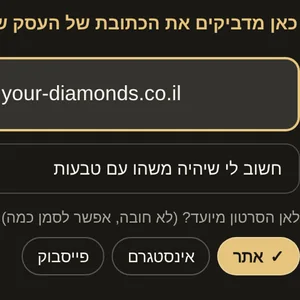
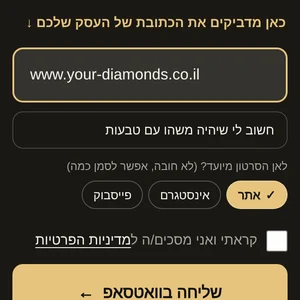
How it works: refresh the link-form picture and fix its thumbnail crop
Claude-Session: https://claude.ai/code/session_015Kj6wZhrCRAfSfrvuRRH85

diff --git a/index.html b/index.html
@@ -887,7 +887,7 @@ dialog .undo{bottom:24px}
       </div>
       <div class="hw-p" id="how-scan" role="tabpanel" aria-labelledby="hwt-scan">
         <p class="hw-line">מדביקים קישור לעסק, מקבלים 3 תסריטים בוואטסאפ, ובוחרים אחד.</p>
-        <div class="hw-row"><button type="button" class="hw-s" aria-expanded="false" data-big="how/a1.webp" data-h="מדביקים קישור לעסק" data-d="מדביקים קישור לאתר או לאינסטגרם. אנחנו &lt;b&gt;סורקים את העסק&lt;/b&gt;, לומדים את המוצרים והסגנון, ו&lt;b&gt;בוחרים רעיונות שמתאימים בדיוק לו&lt;/b&gt;." data-ill="0"><span class="ph"><img src="how/a1-s.webp" alt="" loading="lazy" width="300" height="300"><i aria-hidden="true">1</i></span><b>מדביקים קישור</b></button><button type="button" class="hw-s" aria-expanded="false" data-big="how/a2.webp?7" data-h="מקבלים 3 תסריטים ובוחרים" data-d="לומדים את המוצרים, הצבעים והסגנון שלכם, ושולחים לכם בוואטסאפ 3 תסריטים שנכתבו בשביל העסק שלכם. בכל תסריט: המוצר שנבחר מהאתר שלכם, הסיפור בקצרה, הסצנות והמחיר. עונים איזה תסריט אהבתם, למשל &quot;אחד נשמע טוב&quot;." data-ill="1"><span class="ph"><img src="how/a2-s.webp?7" alt="" loading="lazy" width="300" height="300"><i aria-hidden="true">2</i><em>המחשה</em></span><b>בוחרים תסריט</b></button><button type="button" class="hw-s" aria-expanded="false" data-big="how/a3.webp?7" data-h="מקבלים את הסרטון" data-d="תוך 2 ימי עסקים הסרטון מגיע אליכם בוואטסאפ, מוכן לאינסטגרם, לטיקטוק ולאתר. רוצים לשנות משהו קטן? כותבים לנו." data-ill="1"><span class="ph"><img src="how/a3-s.webp?7" alt="" loading="lazy" width="300" height="300"><i aria-hidden="true">3</i><em>המחשה</em></span><b>מקבלים סרטון</b></button></div>
+        <div class="hw-row"><button type="button" class="hw-s" aria-expanded="false" data-big="how/a1.webp?9" data-h="מדביקים קישור לעסק" data-d="מדביקים קישור לאתר או לאינסטגרם. אנחנו &lt;b&gt;סורקים את העסק&lt;/b&gt;, לומדים את המוצרים והסגנון, ו&lt;b&gt;בוחרים רעיונות שמתאימים בדיוק לו&lt;/b&gt;." data-ill="0"><span class="ph"><img src="how/a1-s.webp?9" alt="" loading="lazy" width="300" height="300"><i aria-hidden="true">1</i></span><b>מדביקים קישור</b></button><button type="button" class="hw-s" aria-expanded="false" data-big="how/a2.webp?7" data-h="מקבלים 3 תסריטים ובוחרים" data-d="לומדים את המוצרים, הצבעים והסגנון שלכם, ושולחים לכם בוואטסאפ 3 תסריטים שנכתבו בשביל העסק שלכם. בכל תסריט: המוצר שנבחר מהאתר שלכם, הסיפור בקצרה, הסצנות והמחיר. עונים איזה תסריט אהבתם, למשל &quot;אחד נשמע טוב&quot;." data-ill="1"><span class="ph"><img src="how/a2-s.webp?7" alt="" loading="lazy" width="300" height="300"><i aria-hidden="true">2</i><em>המחשה</em></span><b>בוחרים תסריט</b></button><button type="button" class="hw-s" aria-expanded="false" data-big="how/a3.webp?7" data-h="מקבלים את הסרטון" data-d="תוך 2 ימי עסקים הסרטון מגיע אליכם בוואטסאפ, מוכן לאינסטגרם, לטיקטוק ולאתר. רוצים לשנות משהו קטן? כותבים לנו." data-ill="1"><span class="ph"><img src="how/a3-s.webp?7" alt="" loading="lazy" width="300" height="300"><i aria-hidden="true">3</i><em>המחשה</em></span><b>מקבלים סרטון</b></button></div>
         <p class="hw-hint">לחיצה על תמונה פותחת הסבר מפורט.</p>
         <div class="hw-d" hidden><div class="hw-dimg"><img alt=""><em hidden>המחשה</em></div><div class="hw-dt"><h3></h3><p></p><button type="button" class="hw-dx">סגירה</button></div></div>
         <div class="hw-cta"><button class="btn gold" type="button" data-scan>שלחו לי רעיונות <span class="arr" aria-hidden="true">←</span></button></div>
